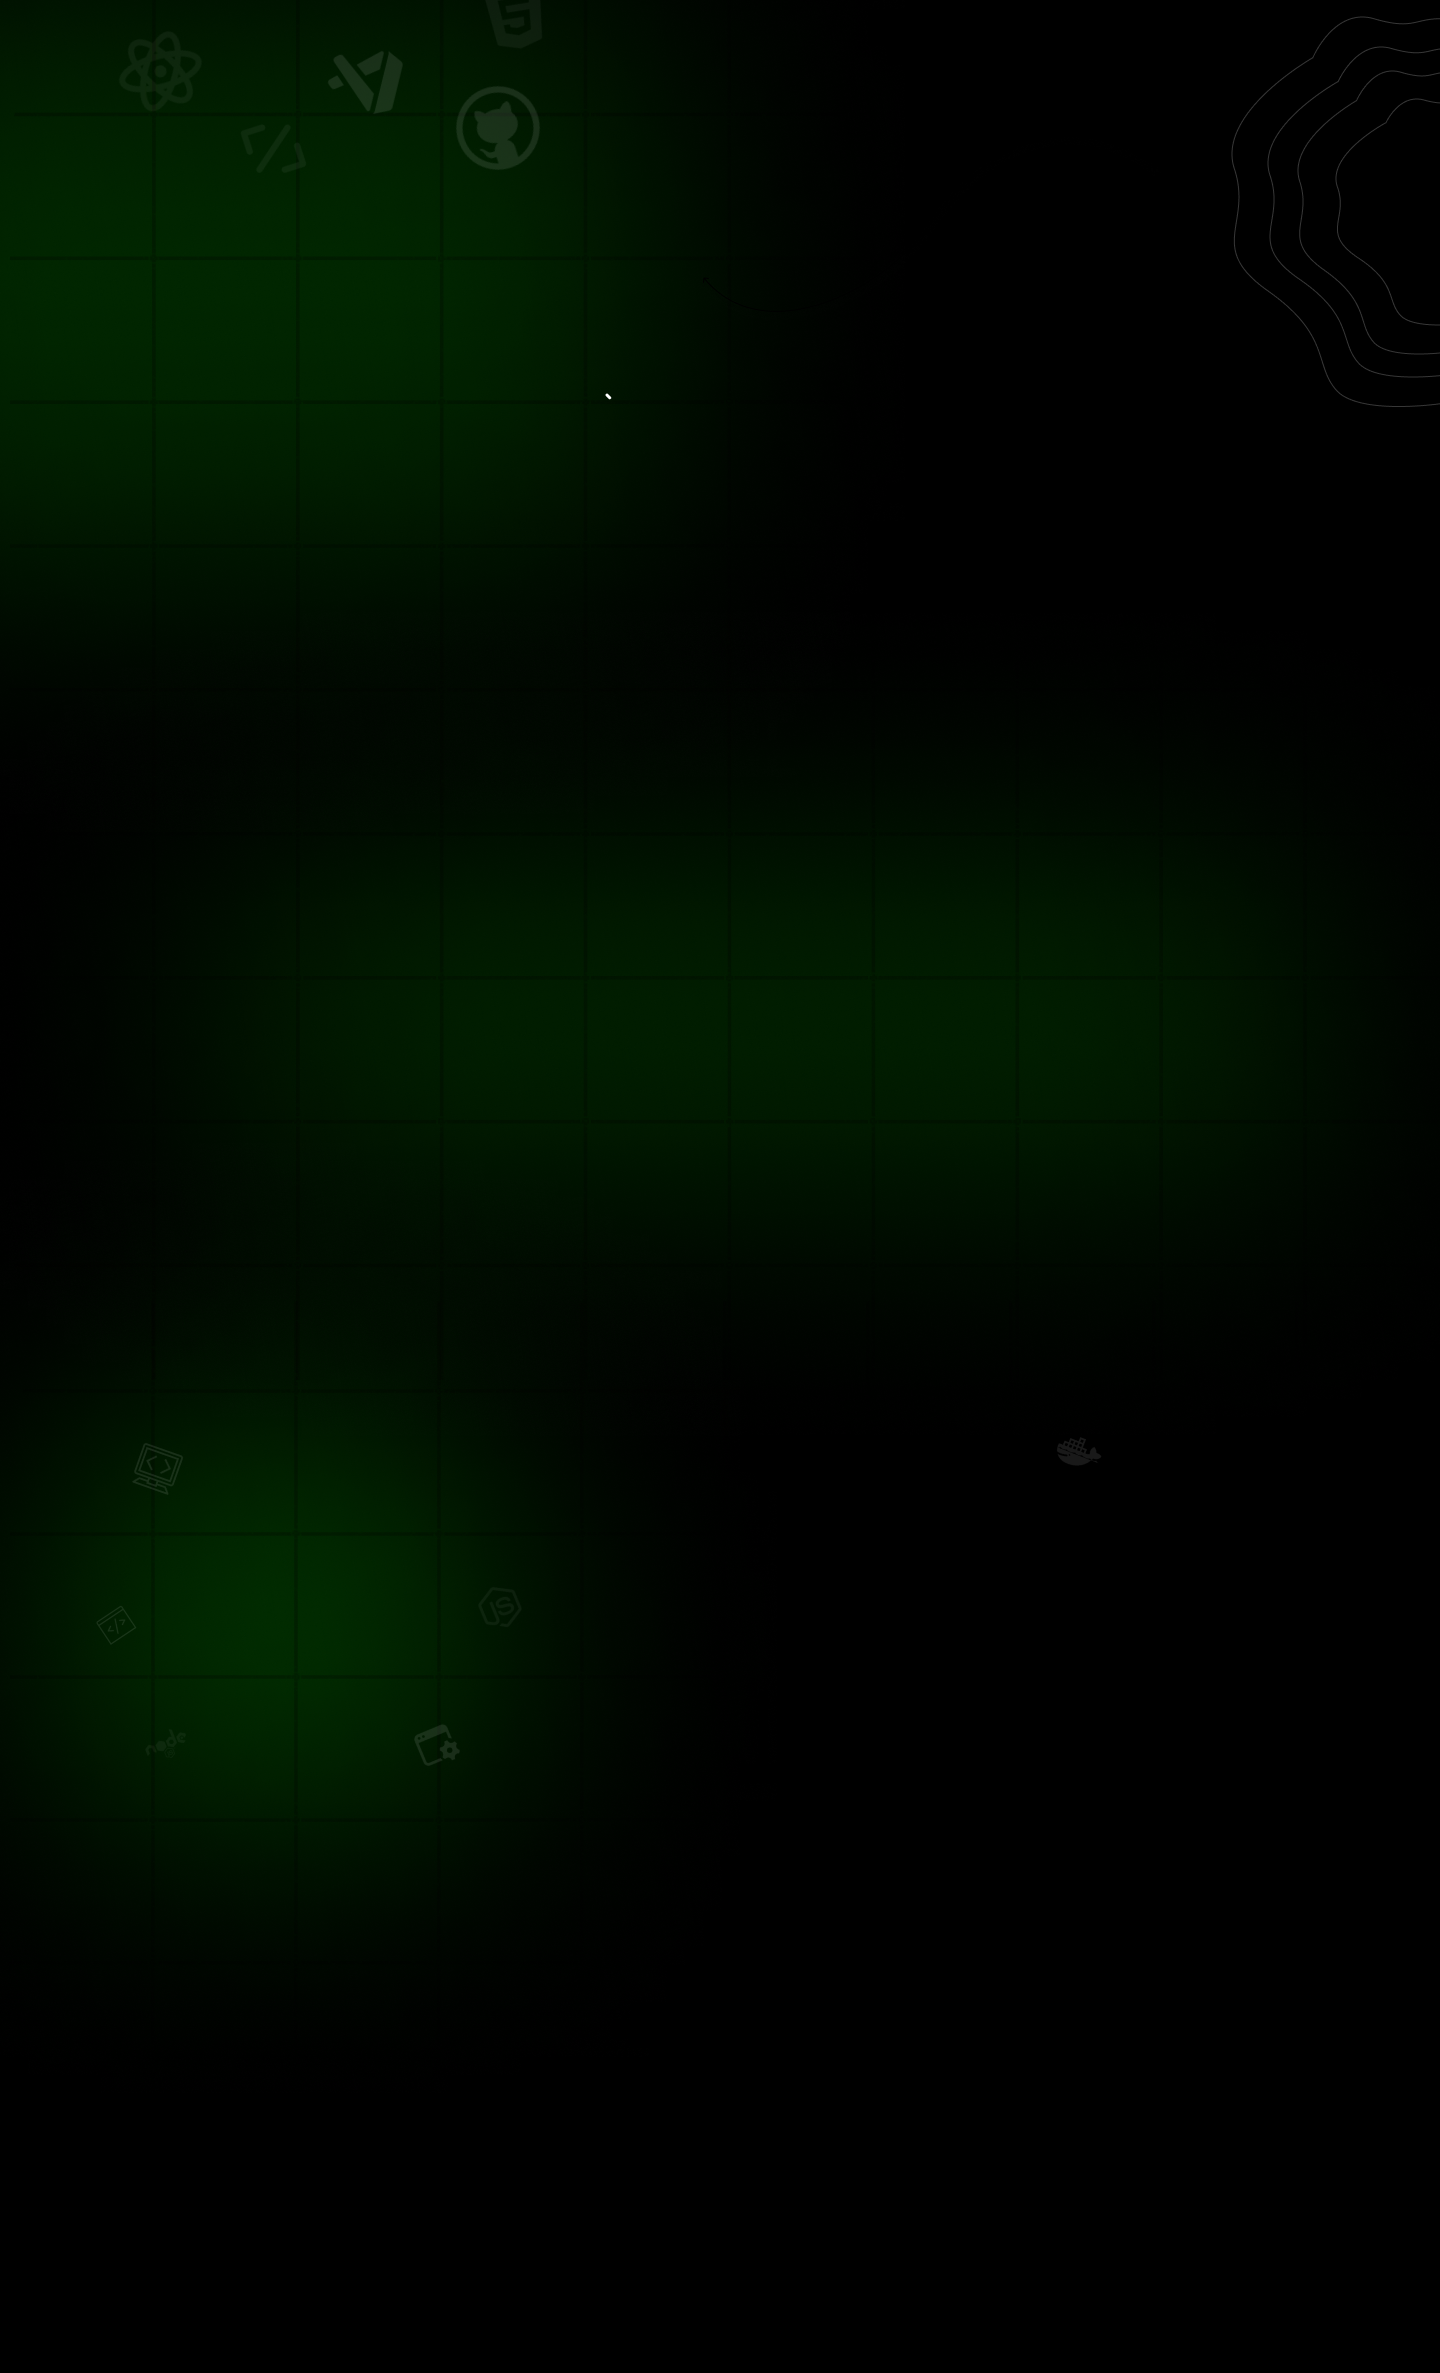
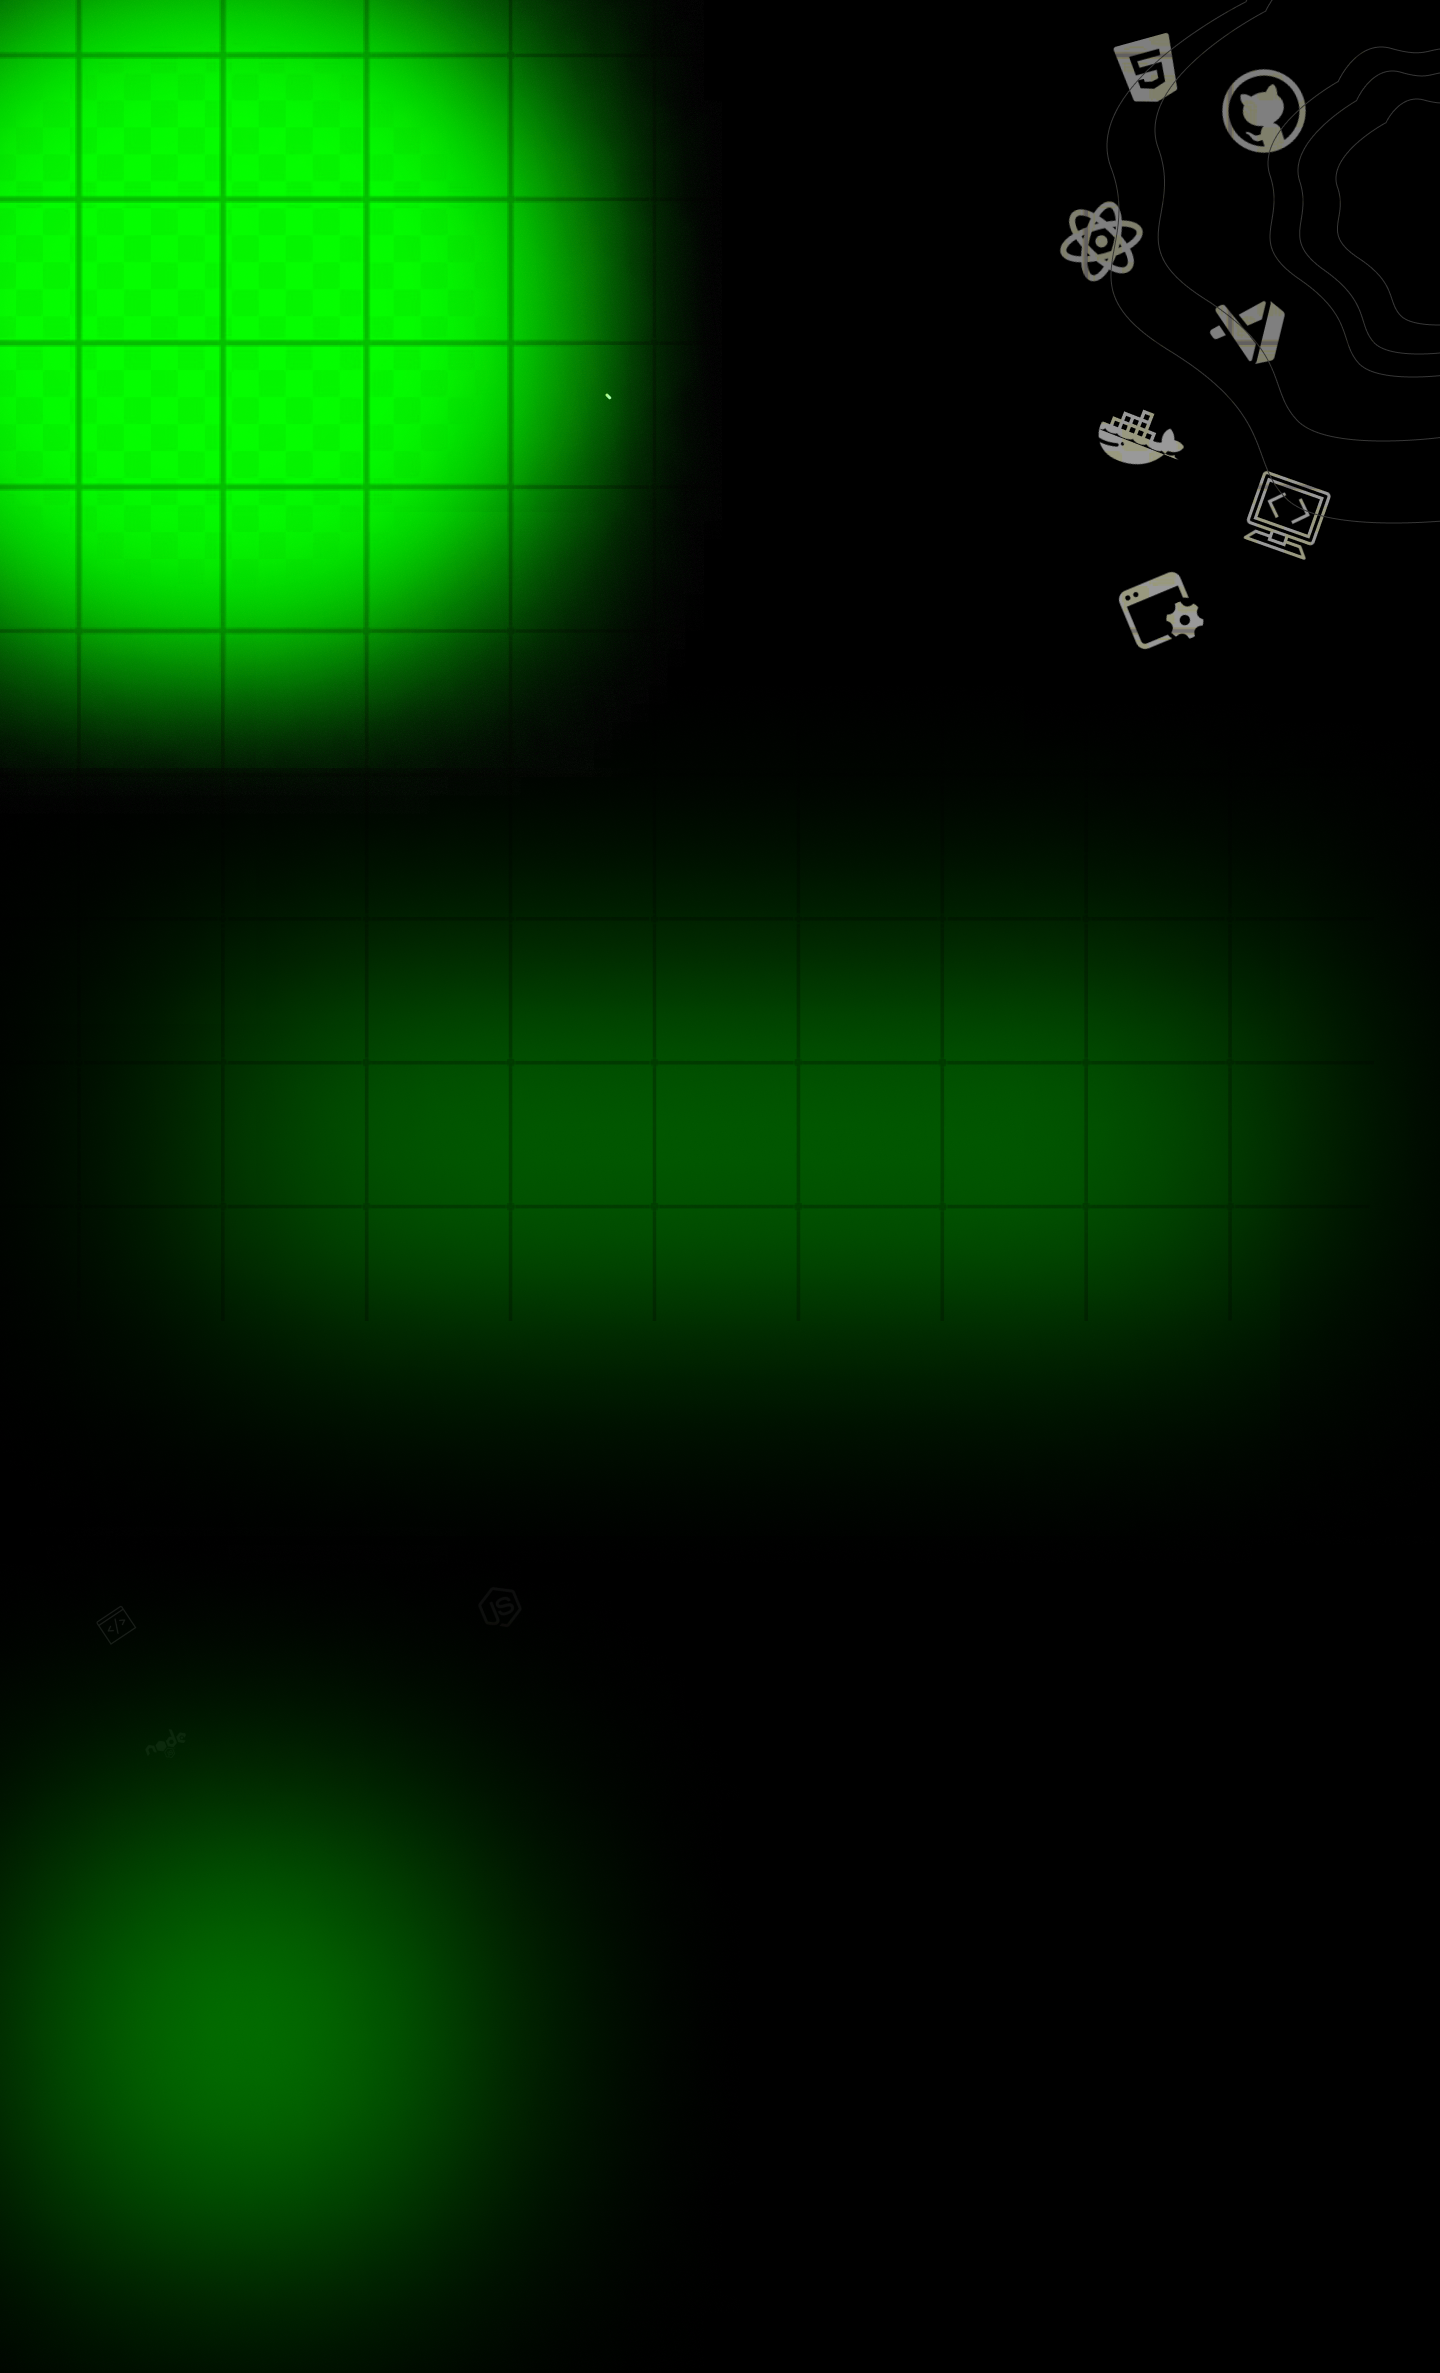
added coverpage 2

diff --git a/src/components/fluidAnimation/components/fluid-animation.js b/src/components/fluidAnimation/components/fluid-animation.js
@@ -116,8 +116,8 @@ export default class FluidAnimation {
   onMouseMove = (e) => {
     this._pointers[0].down = true
     this._pointers[0].moved = this._pointers[0].down
-    this._pointers[0].dx = (e.offsetX - this._pointers[0].x) * 10.0
-    this._pointers[0].dy = (e.offsetY - this._pointers[0].y) * 10.0
+    this._pointers[0].dx = (e.offsetX - this._pointers[0].x) * 5.0
+    this._pointers[0].dy = (e.offsetY - this._pointers[0].y) * 5.0
     this._pointers[0].x = e.offsetX
     this._pointers[0].y = e.offsetY
     if(this._update_color){
@@ -171,7 +171,7 @@ export default class FluidAnimation {
   onTouchEnd = (e) => {
     for (let i = 0; i < e.touches.length; ++i) {
       
-      setInterval(this._pointers[i].down = false, 10050);
+      this._pointers[i].down = false
 
     }
   }
@@ -368,18 +368,18 @@ export default class FluidAnimation {
   update() {
     const gl = this._gl
 
-    const dt = Math.min((Date.now() - this._time) / 5000, 0.016)
+    const dt = Math.min((Date.now() - this._time) / 8000, 0.016)
     this._time = Date.now()
     this._timer += 0.5
 
     const w = this._textureWidth
     const h = this._textureHeight
-    const iW = 60 / w
-    const iH = 60 / h
+    const iW = 30 / w
+    const iH = 30 / h
 
     gl.viewport(0, 0, w, h)
 
-    if (this._splatStack.length > 10) {
+    if (this._splatStack.length > 1) {
       this._addSplats(this._splatStack.pop())
     }
 
@@ -432,7 +432,7 @@ export default class FluidAnimation {
     this._blit(this._divergence[1])
 
     this._programs.clear.bind()
-    let pressureTexId = this._pressure.read[5]
+    let pressureTexId = this._pressure.read[1]
     gl.activeTexture(gl.TEXTURE0 + pressureTexId)
     gl.bindTexture(gl.TEXTURE_2D, this._pressure.read[0])
     gl.uniform1i(this._programs.clear.uniforms.uTexture, pressureTexId)

diff --git a/src/components/textanimation/textanimation.css b/src/components/textanimation/textanimation.css
@@ -7,17 +7,16 @@ p {
 }
 .container {
   color: #e5e5e5;
-  font-size: 2rem;
+  font-size: 1rem;
   text-transform: uppercase;
-  height: 19vh;
   display: flex;
   align-items: center;
   justify-content: center;
 }
 
 .animation {
-  height: 90px;
-  width: 80%;
+  height: 50px;
+  width: 100%;
   overflow: hidden;
   margin-left: 1rem;
 }
@@ -32,18 +31,23 @@ p {
   /* background-color: #20a7d8; */
   width: 100%;
   color: #20a7d8;
-  height: 15vh;
+  display: flex;
+  justify-content: center;
 
 }
 .second div {
   color: #cd921e;
-  margin-top: 1rem;
+  margin-top: 2rem;
+  display: flex;
+  justify-content: center;
   width: 100%;
 }
 .third div {
+  display: flex;
+  justify-content: center;
   color: #4bff45;
   width: 100%;
-  margin-top: 1rem;
+  margin-top: 2rem;
 }
 
 @keyframes text-animation {
@@ -54,22 +58,22 @@ p {
     margin-top: 0;
   }
   20% {
-    margin-top: -8rem;
+    margin-top: -5rem;
   }
   30% {
-    margin-top: -8rem;
+    margin-top: -5rem;
   }
   40% {
-    margin-top: -13rem;
+    margin-top: -10rem;
   }
   60% {
-    margin-top: -13rem;
+    margin-top: -10rem;
   }
   70% {
-    margin-top: -8rem;
+    margin-top: -5rem;
   }
   80% {
-    margin-top: -8rem;
+    margin-top: -5rem;
   }
   90% {
     margin-top: 0;

diff --git a/src/components/fluidAnimation/index.js b/src/components/fluidAnimation/index.js
@@ -4,19 +4,19 @@ import React from "react";
 import FluidAnimation from "./components/react-fluid-animation";
 const defaultConfig = {
   textureDownsample: 1,
-  densityDissipation: 0.9,
-  velocityDissipation: 0.94,
-  pressureDissipation: 0.38,
+  densityDissipation: 0.94,
+  velocityDissipation: 1.001,
+  pressureDissipation: 0.50,
   pressureIterations: 28,
-  curl: 30,
+  curl: 40,
   splatRadius: 0.015,
 };
 
 const FAnimation = () => {
   return (
-    <div className="w-full h-[100vh] text-[#FFF] ">
+    <div className="w-full h-[100vh] opacity-90  z-[44] ">
       <FluidAnimation config={defaultConfig} />
-    
+      
 
       <div className="h-[100vh] -mt-[100vh]  "></div>
     </div>

diff --git a/src/components/coverpage.js b/src/components/coverpage.js
@@ -4,7 +4,7 @@ import Textanimation from './textanimation/textanimation'
 export default function Coverpage() {
   return (
     <>
-    <div className="z-[0] pt-[10vh] w-[100%] comp1 relative h-[100vh] bg-[#ff000000] text-[#ffffff] text-[5vw] font-mochiy-pop flex max-[600px]:flex-col max-[600px]:items-center max-[600px]:h-[100vh] ">
+    <div className=" z-[0] pt-[10vh] w-[100%] comp1 relative h-[100vh] bg-[#ff000000] text-[#ffffff] text-[5vw] font-mochiy-pop flex max-[600px]:flex-col max-[600px]:items-center max-[600px]:h-[100vh] ">
 
       <div className='w-[60%] max-[600px]:w-[100%] flex items-center justify-center  max-[600px]:h-[100vh]'>  
 

diff --git a/src/components/coverpage2.js b/src/components/coverpage2.js
@@ -1,0 +1,13 @@
+import React from 'react'
+import Textanimation from './textanimation/textanimation'
+
+export default function Coverpage2() {
+  return (
+    <div className='text-[5rem] left-[35%] top-[17rem] flex flex-col justify-center text-[#ffffff]  items-center font-mochiy-pop absolute z-[100] top-[100px]'>
+          <div className='text-[3vw] text-[1.5rem] flex items-center justify-center max-[600px]:text-[8vw] text-[#515151]'>Hello, This is</div>  
+      <div className='flex items-center text-[2.5rem] justify-center max-[600px]:text-[10vw]'>Piyush Mehta</div>
+   <Textanimation/>
+
+    </div>
+  )
+}

diff --git a/src/app/page.js b/src/app/page.js
@@ -11,6 +11,7 @@ import { useEffect } from 'react';
 import AOS from 'aos';
 import FAnimation from '@/components/fluidAnimation'
 import Edu from '@/components/education/edu'
+import Coverpage2 from '@/components/coverpage2'
 
 export default function page() {
   useEffect(() => {
@@ -40,7 +41,8 @@ export default function page() {
       {/* <Cursor/> */}
       <FAnimation/>
       {/* <Header/> */}
-      <Coverpage/>
+      {/* <Coverpage/> */}
+      <Coverpage2/>
       <Cards/>
       <Skills/>
       <Edu/>

diff --git a/src/components/fluidAnimation/components/react-fluid-animation.js b/src/components/fluidAnimation/components/react-fluid-animation.js
@@ -63,6 +63,7 @@ class ReactFluidAnimation extends Component {
           width: '100%',
           height: '100%',
           overflow: 'hidden',
+          backgroundColor:"red",
           ...style
         }}
         {...rest}
@@ -78,7 +79,9 @@ class ReactFluidAnimation extends Component {
           onTouchEnd={this._onTouchEnd}
           style={{
             width: '100%',
-            height: '100%'
+            height: '100%',
+            backgroundColor:"red",
+
           }}
         />
       </div>

diff --git a/src/components/fluidAnimation/components/shaders/pressure.js b/src/components/fluidAnimation/components/shaders/pressure.js
@@ -23,6 +23,6 @@ void main () {
   float C = texture2D(uPressure, vUv).x;
   float divergence = texture2D(uDivergence, vUv).x;
   float pressure = (L + R + B + T - divergence) * 0.225;
-  gl_FragColor = vec4(pressure, 0.0, 0.0, 0.1);
+  gl_FragColor = vec4(pressure, 1.0, 1.0, 0.111);
 }
 `

diff --git a/src/components/textanimation/textanimation.js b/src/components/textanimation/textanimation.js
@@ -4,7 +4,7 @@ export default function Textanimation() {
   return (
     <div>
       <main class="container">
-  <p> I'm</p>
+ 
   <section class="animation">
     <div class="first"><div>Aspiring Entrepreneur</div></div>
     <div class="second"><div>Full Stack Web Developer</div></div>

diff --git a/src/components/fluidAnimation/components/shaders/gradient-subtract.js b/src/components/fluidAnimation/components/shaders/gradient-subtract.js
@@ -22,6 +22,6 @@ void main () {
   float B = texture2D(uPressure, boundary(vB)).x;
   vec2 velocity = texture2D(uVelocity, vUv).xy;
   velocity.xy -= vec2(R - L, T - B);
-  gl_FragColor = vec4(velocity, 50.0, 1.0);
+  gl_FragColor = vec4(velocity, 1.0, 1.0);
 }
 `

diff --git a/src/components/fluidAnimation/components/shaders/curl.js b/src/components/fluidAnimation/components/shaders/curl.js
@@ -15,6 +15,6 @@ void main () {
   float T = texture2D(uVelocity, vT).x;
   float B = texture2D(uVelocity, vB).x;
   float vorticity = R - L - T + B;
-  gl_FragColor = vec4(vorticity, 1, 1, 1);
+  gl_FragColor = vec4(vorticity, 100, 100, 100);
 }
 `

diff --git a/src/components/fluidAnimation/components/shaders/advection.js b/src/components/fluidAnimation/components/shaders/advection.js
@@ -12,6 +12,6 @@ uniform float dissipation;
 void main () {
   vec2 coord = vUv - dt * texture2D(uVelocity, vUv).xy * texelSize;
   gl_FragColor = dissipation * texture2D(uSource, coord);
-  gl_FragColor.a = 10.0;
+  gl_FragColor.a = 1.0;
 }
 `
